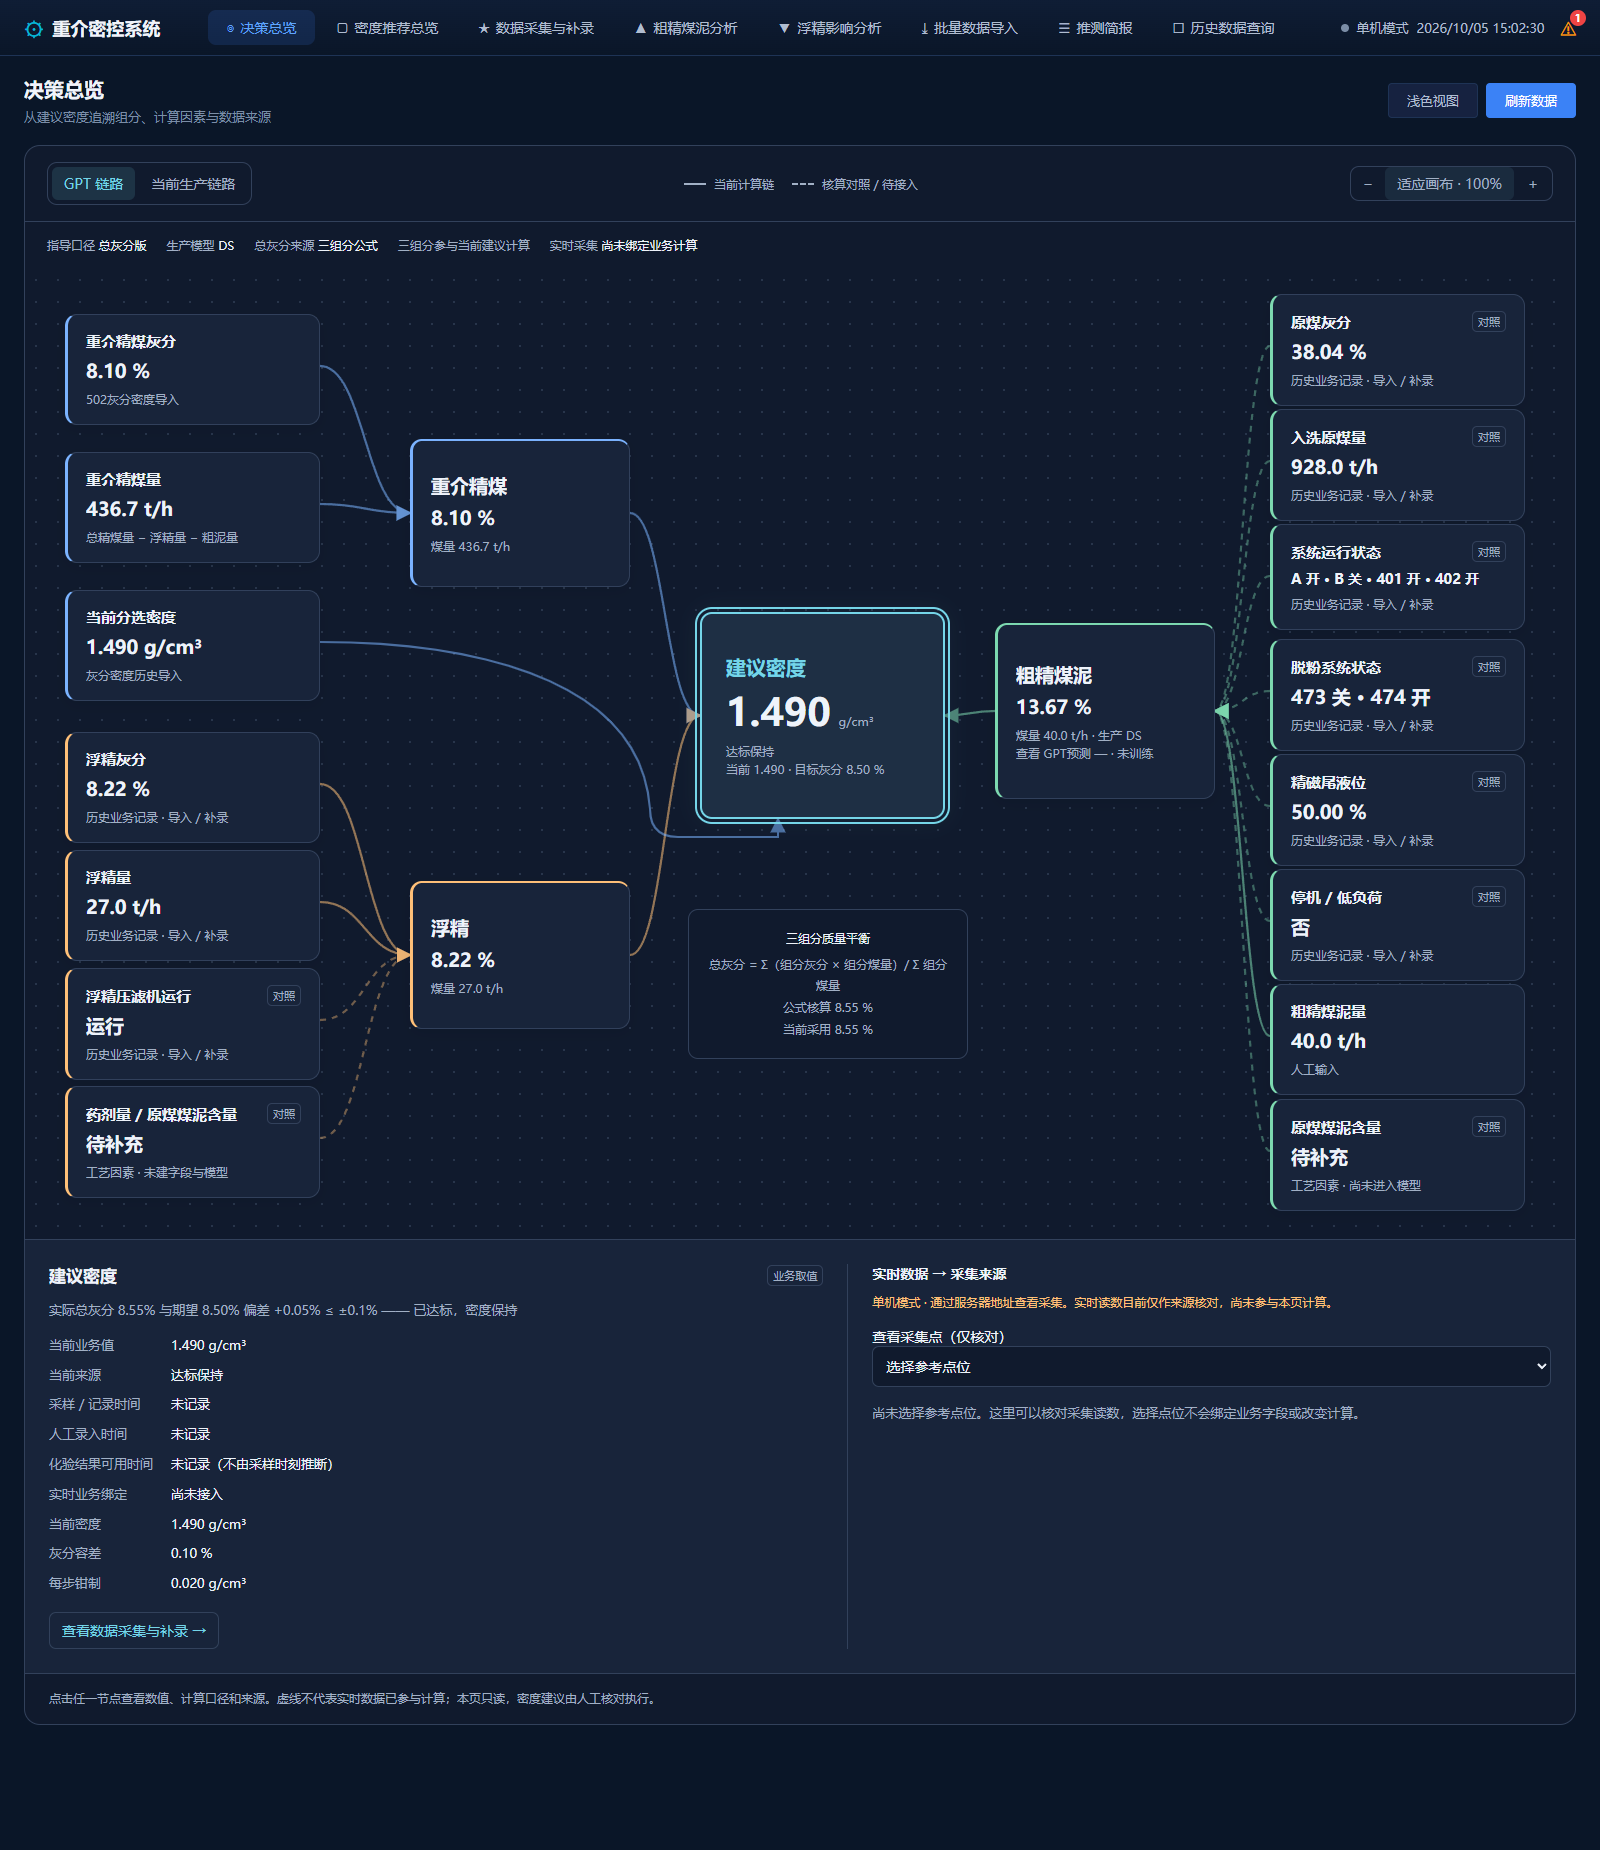
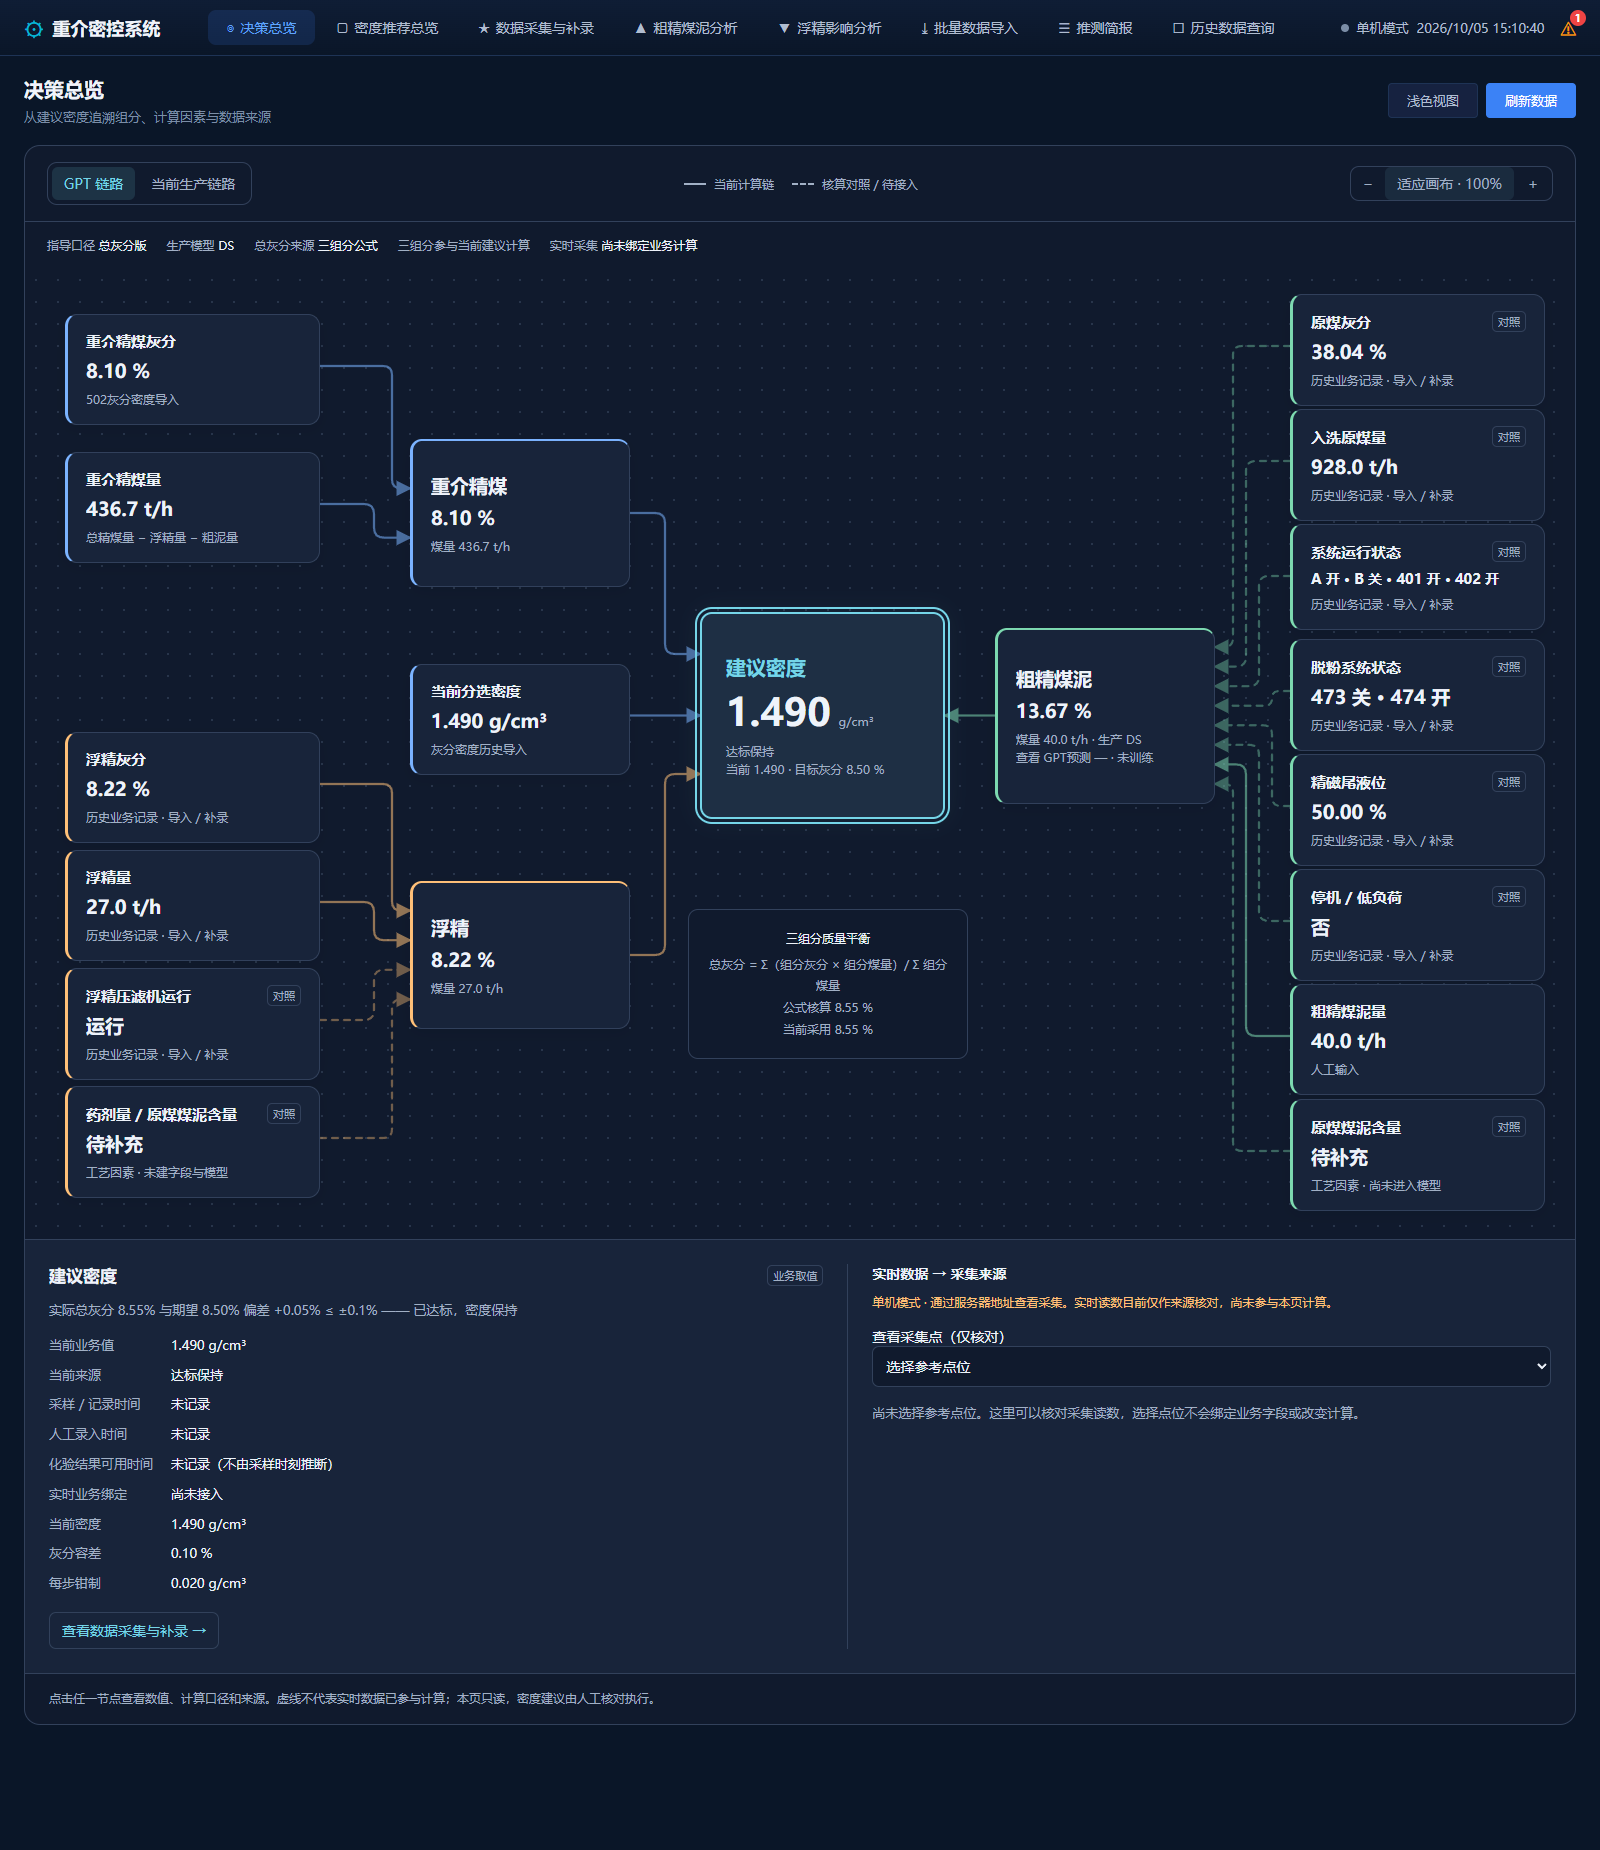
fix: simplify decision map arrows with direct and rounded routes

diff --git a/frontend/js/decision-overview.js b/frontend/js/decision-overview.js
@@ -192,7 +192,7 @@ const DecisionOverviewPage = {
                 return `${name}：记录 ${this.number(field.raw)}；模型采用 ${this.number(field.used)}${!s.model ? '（查看模型尚未训练）' : field.missing && Number.isFinite(field.used) ? '（缺失，按训练均值补齐）' : field.clipped ? '（超训练范围，已限幅）' : ''}`;
             }).join('；');
             return n(id,title,value,recordSource(s.coarse),`所查看的${this.view === 'gpt' ? ' GPT' : '当前生产'}模型输入。${details}。采集点位尚未绑定业务字段。`,
-                {...family('coarse',1240,y),parent:'coarse',sampleAt:s.coarse?.timestamp,reference:s.previewOnly || !s.model || coarseManual,fields,unit:keys.length === 1 ? (keys[0] === 'coal_amount' ? 't/h' : '%') : '状态'});
+                {...family('coarse',1260,y),parent:'coarse',sampleAt:s.coarse?.timestamp,reference:s.previewOnly || !s.model || coarseManual,fields,unit:keys.length === 1 ? (keys[0] === 'coal_amount' ? 't/h' : '%') : '状态'});
         };
         const flags = fields => fields.map(field => {
             const short = field.key.replace('sys','').replace('desliming','');
@@ -206,13 +206,13 @@ const DecisionOverviewPage = {
             n('float','浮精',ash(s.ashes.float),`煤量 ${rate(s.amounts.float)}`,`浮精灰分与煤量共同进入三组分质量平衡；压滤机状态为工况参考。`,
                 {...family('float',380,612,{w:220,h:148}),type:'component',parent:'density',reference:!s.componentFeeds,page:'page-float',sampleAt:s.floating?.timestamp}),
             n('coarse','粗精煤泥',ash(s.ashes.coarse),`煤量 ${rate(s.amounts.coarse)} · 生产 ${s.engineLabel}`,`${coarseSource}。当前生产采用值与下面的 GPT 原始预测分开显示；共享 EMA 不作为 GPT 预测值。`,
-                {...family('coarse',965,354,{w:220,h:176}),type:'component',parent:'density',reference:!s.componentFeeds,page:'page-coarse',sampleAt:coarseManual ? null : s.coarse?.timestamp,enteredAt:coarseManual ? s.store.coarseAshInput?.manualAt : null}),
+                {...family('coarse',965,358.5,{w:220,h:176}),type:'component',parent:'density',reference:!s.componentFeeds,page:'page-coarse',sampleAt:coarseManual ? null : s.coarse?.timestamp,enteredAt:coarseManual ? s.store.coarseAshInput?.manualAt : null}),
             n('heavy-ash','重介精煤灰分',ash(s.ashes.heavy),heavyMeasurement.source,'优先有效人工采样值，其次 502 灰分补录 / 导入记录；没有测量记录时使用默认值，不能视作现场实时读数。',
                 {...family('heavy',35,45),parent:'heavy',unit:'%',...heavyMeasurement}),
             n('heavy-amount','重介精煤量',rate(s.amounts.heavy),'人工输入 / 总量减浮精减粗泥','有效人工值优先；计算层：总精煤量 − 浮精量 − 粗精煤泥量。缺少组成量时无法计算；总量可能包含默认皮带秤值，需核对来源。',
                 {...family('heavy',35,183),parent:'heavy',unit:'t/h',...amountInfo('denseAmount','heavy')}),
             n('density-current','当前分选密度',this.number(s.guide.rhoCur,3,'g/cm³'),'人工输入 / 灰分密度记录 / 默认','建议是在当前密度上按灰分偏差修正，受每步钳制和物理范围约束。这里只显示现有业务取值，不向 PLC 写入。',
-                {...family('heavy',35,321),parent:'density',unit:'g/cm³',...densityInfo}),
+                {...family('heavy',380,394.5,{w:220}),parent:'density',unit:'g/cm³',...densityInfo}),
             n('float-ash','浮精灰分',ash(s.ashes.float),floatManual ? '人工覆盖' : floatMeasured ? recordSource(s.floating) : '默认值 · 非实时测量','有效人工覆盖优先，其次时间最新的浮精记录；无数据时原计算链使用默认值。历史化验未记录出报告时刻，不能据采样时刻推断当时已知结果。',
                 {...family('float',35,463),parent:'float',unit:'%',...(floatManual ? manualInfo(s.store.floatAshInput) : {sampleAt:floatMeasured ? s.floating.timestamp : null})}),
             n('float-amount','浮精量',rate(s.amounts.float),'人工输入 / 最新浮精记录','有效人工值优先，其次最新浮精记录的 coal_amount。压滤机状态不会自动推导产量。',
@@ -229,9 +229,9 @@ const DecisionOverviewPage = {
             feature('stoppage','停机 / 低负荷',['is_stoppage'],600,fields => fields[0].raw == null ? '—' : fields[0].raw ? '是' : '否'),
             n('coarse-amount','粗精煤泥量',rate(s.amounts.coarse),s.reader.coarseAmountLayer() === '计算' ? '315 筛量 − 筛下水量' : s.reader.coarseAmountLayer(),
                 `量的计算：315 筛量 ${rate(s.store.coarseCalc?.screen315)} − 筛下水量 ${rate(s.store.coarseCalc?.waterUnder)}。这是组分产量，与“入洗原煤量”模型因素不同。`,
-                {...family('coarse',1240,715),parent:'coarse',unit:'t/h',...amountInfo('coarseAmount','coarse')}),
+                {...family('coarse',1260,715),parent:'coarse',unit:'t/h',...amountInfo('coarseAmount','coarse')}),
             n('coarse-slime','原煤煤泥含量','待补充','工艺因素 · 尚未进入模型','目前的粗精模型使用 10 个输入因素；原煤煤泥含量尚无独立输入字段，也未进入模型。后续需要人工采样或可验证的测量来源。',
-                {...family('coarse',1240,830),parent:'coarse',reference:true}),
+                {...family('coarse',1260,830),parent:'coarse',reference:true}),
         ];
     },
 
@@ -241,21 +241,49 @@ const DecisionOverviewPage = {
         document.getElementById('decision-context').innerHTML = `<span>指导口径 <strong>${s.guide.scheme === 'heavy' ? '重介精煤版' : '总灰分版'}</strong></span><span>生产模型 <strong>${this.escape(s.engineLabel)}</strong></span><span>总灰分来源 <strong>${this.escape(sources[s.total.source])}</strong></span><span>${message}</span><span>实时采集 <strong>尚未绑定业务计算</strong></span>`;
     },
 
+    // Short right-angle routes with small rounded corners; aligned nodes stay straight.
+    connectorPath(x1,y1,x2,y2,lane) {
+        if (Math.abs(y2-y1) < .5) return `M ${x1} ${y1} H ${x2}`;
+        const dx = Math.sign(x2-x1), dy = Math.sign(y2-y1);
+        const r = Math.min(10,Math.abs(lane-x1)/2,Math.abs(x2-lane)/2,Math.abs(y2-y1)/2);
+        return `M ${x1} ${y1} H ${lane-dx*r} Q ${lane} ${y1} ${lane} ${y1+dy*r} V ${y2-dy*r} Q ${lane} ${y2} ${lane+dx*r} ${y2} H ${x2}`;
+    },
+    routeConnections() {
+        return this.nodes.filter(node => node.parent).map(node => {
+            const parent = this.nodes.find(n => n.id === node.parent), left = node.x < parent.x;
+            const x1 = left ? node.x+node.w : node.x, x2 = left ? parent.x : parent.x+parent.w;
+            const y1 = node.y+node.h/2;
+            let y2, lane = (x1+x2)/2;
+            if (parent.id === 'density') {
+                // Keep three left entrances separate; coarse enters from the right.
+                y2 = node.id === 'heavy' ? parent.y+42 : node.id === 'float' ? parent.y+162 : parent.y+parent.h/2;
+            } else {
+                const siblings = this.nodes.filter(n => n.parent === parent.id).sort((a,b) => a.y-b.y);
+                const targets = siblings.map((n,i) => ({id:n.id,sourceY:n.y+n.h/2,targetY:parent.y+parent.h*(i+1)/(siblings.length+1)}));
+                const target = targets.find(n => n.id === node.id);
+                y2 = target.targetY;
+                // Nested lanes preserve source/port ordering and avoid crossing fan-in lines.
+                const upper = y1 <= y2;
+                const peers = targets.filter(n => (n.sourceY <= n.targetY) === upper);
+                const rank = peers.findIndex(n => n.id === node.id);
+                const gap = Math.abs(x2-x1), inset = Math.min(18,gap/3);
+                const step = peers.length > 1 ? Math.min(18,(gap-2*inset)/(peers.length-1)) : 0;
+                const distance = inset+(upper ? rank : peers.length-1-rank)*step;
+                lane = x2-Math.sign(x2-x1)*distance;
+            }
+            return {node,parent,path:this.connectorPath(x1,y1,x2,y2,lane)};
+        });
+    },
+
     renderGraph() {
         const s = this.snapshot, selected = this.nodes.find(n => n.id === this.selected);
         const colors = {heavy:'var(--dm-blue)',float:'var(--dm-orange)',coarse:'var(--dm-green)'};
         const ancestorIds = new Set([this.selected]);
         let current = selected;
         while (current?.parent) { ancestorIds.add(current.parent); current = this.nodes.find(n => n.id === current.parent); }
-        const paths = this.nodes.filter(node => node.parent).map(node => {
-            const parent = this.nodes.find(n => n.id === node.parent), left = node.x < parent.x;
-            const x1 = left ? node.x + node.w : node.x, x2 = left ? parent.x : parent.x + parent.w;
-            const y1 = node.y + node.h / 2, y2 = parent.y + parent.h / 2;
-            // The density measurement enters below the root rather than crossing the heavy branch.
-            const path = node.id === 'density-current' ? `M ${x1} ${y1} C 420 ${y1}, 610 400, 620 540 Q 620 568, 648 568 L 748 568 L 748 550` :
-                `M ${x1} ${y1} C ${(x1+x2)/2} ${y1}, ${(x1+x2)/2} ${y2}, ${x2} ${y2}`;
+        const paths = this.routeConnections().map(({node,parent,path}) => {
             const highlight = ancestorIds.has(node.id) && ancestorIds.has(parent.id);
-            return `<path class="decision-edge${node.reference ? ' is-reference' : ''}${highlight ? ' is-highlight' : ''}" d="${path}" stroke="${colors[node.family]}" marker-end="url(#decision-arrow-${node.family})"/>`;
+            return `<path class="decision-edge${node.reference ? ' is-reference' : ''}${highlight ? ' is-highlight' : ''}" data-decision-from="${node.id}" data-decision-to="${parent.id}" d="${path}" stroke="${colors[node.family]}" marker-end="url(#decision-arrow-${node.family})"/>`;
         }).join('');
         const markers = Object.entries(colors).map(([key,color]) => `<marker id="decision-arrow-${key}" viewBox="0 0 8 8" refX="7" refY="4" markerWidth="7" markerHeight="7" orient="auto"><path d="M0 0 L8 4 L0 8" fill="${color}"/></marker>`).join('');
         const cards = this.nodes.map(node => {

diff --git a/frontend/index.html b/frontend/index.html
@@ -6,7 +6,7 @@
     <title>重介密控系统 - 密度推荐与灰分监控平台</title>
     <link rel="icon" type="image/svg+xml" href="favicon.svg">
     <link rel="stylesheet" href="css/style.css?v=11">
-    <link rel="stylesheet" href="css/decision-overview.css?v=1">
+    <link rel="stylesheet" href="css/decision-overview.css?v=2">
     <!-- 无外部依赖，图表使用纯Canvas 2D绘制 -->
     <script src="js/xlsx-lite.js?v=8"></script>
     <script src="js/chart-lite.js?v=7"></script>
@@ -877,7 +877,7 @@
     <script src="js/api.js?v=7"></script>
     <script src="js/app.js?v=86"></script>
     <script src="js/overview.js?v=46"></script>
-    <script src="js/decision-overview.js?v=1"></script>
+    <script src="js/decision-overview.js?v=2"></script>
     <script src="js/collect.js?v=25"></script>
     <script src="js/coarse.js?v=24"></script>
     <script src="js/float.js?v=15"></script>

diff --git a/frontend/css/decision-overview.css b/frontend/css/decision-overview.css
@@ -20,7 +20,7 @@
 .decision-canvas-space { position: relative; margin: auto; overflow: hidden; }
 .decision-board { position: relative; width: 1540px; height: 970px; transform-origin: top left; }
 .decision-edges { position: absolute; inset: 0; width: 1540px; height: 970px; pointer-events: none; overflow: visible; }
-.decision-edge { fill: none; stroke-width: 2.2; opacity: .55; }
+.decision-edge { fill: none; stroke-width: 2.2; stroke-linecap: round; stroke-linejoin: round; opacity: .55; }
 .decision-edge.is-reference { stroke-dasharray: 6 6; opacity: .4; }
 .decision-edge.is-highlight { opacity: 1; stroke-width: 3; }
 .decision-edge-label { fill: var(--dm-muted); font-size: 12px; }
